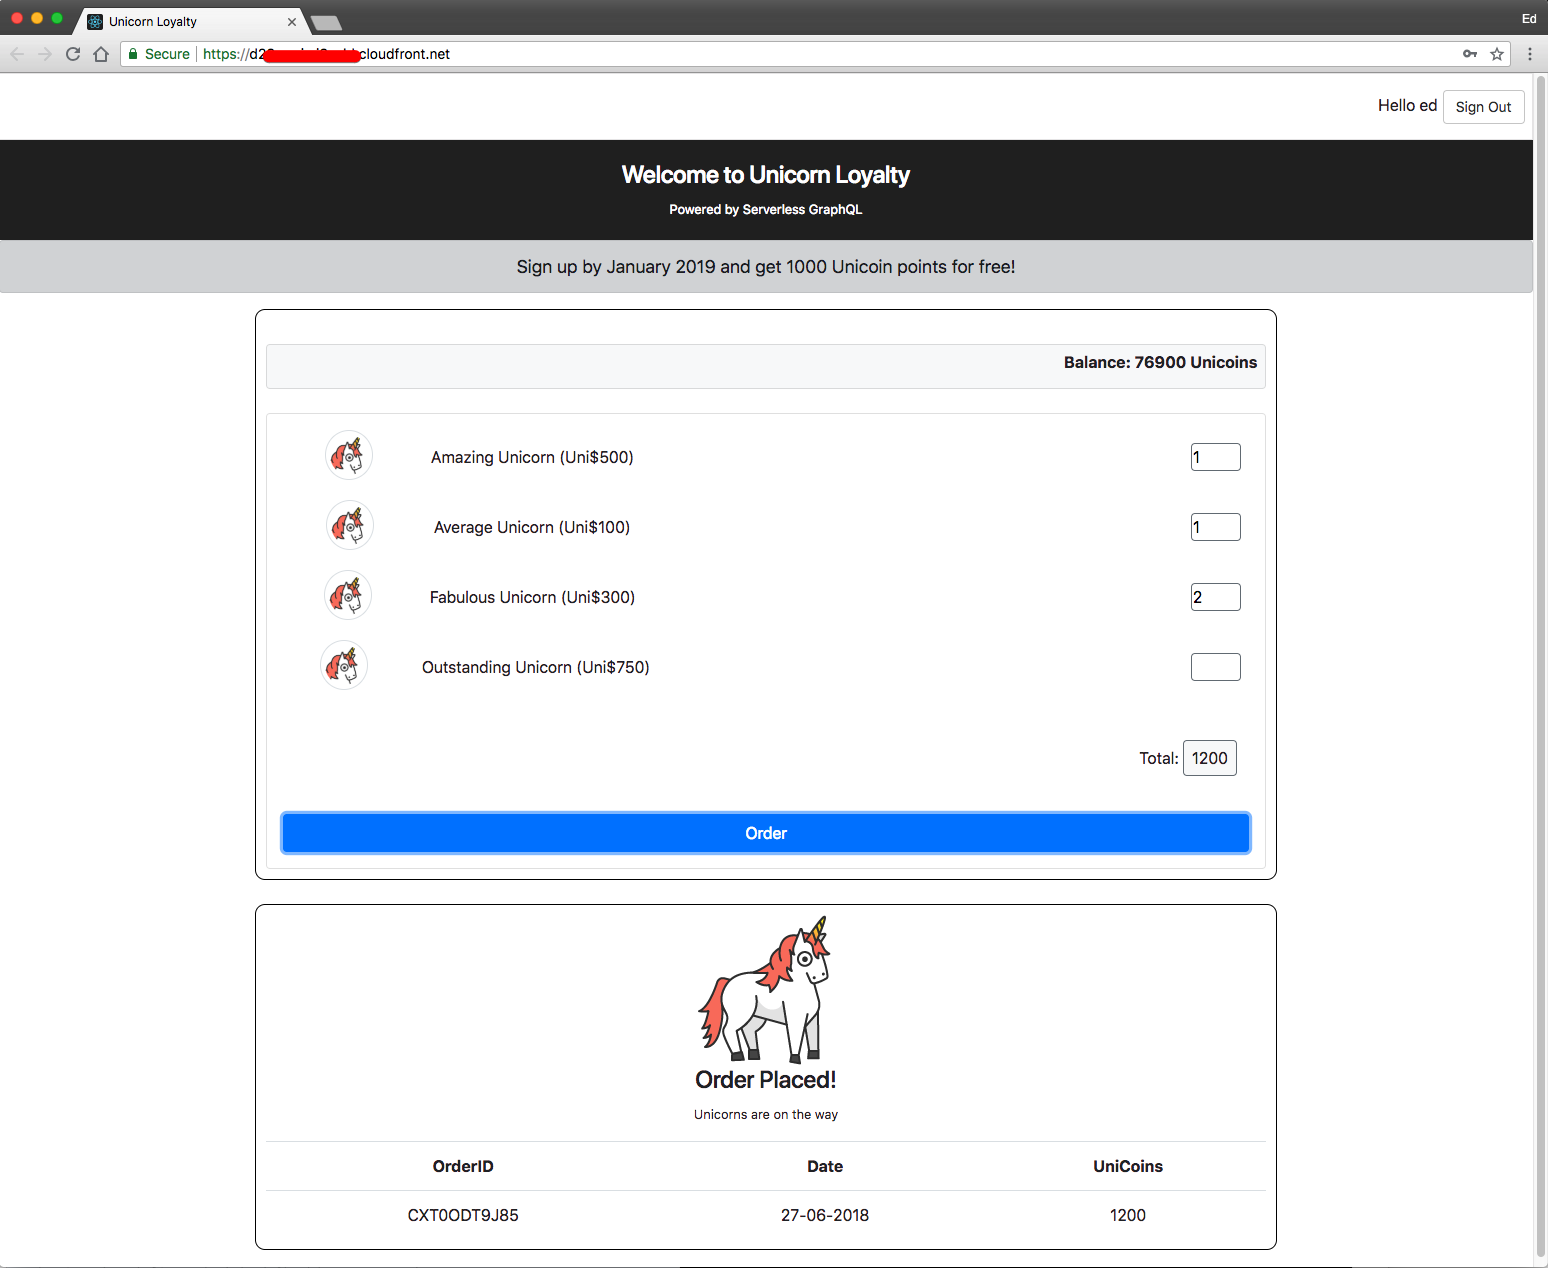
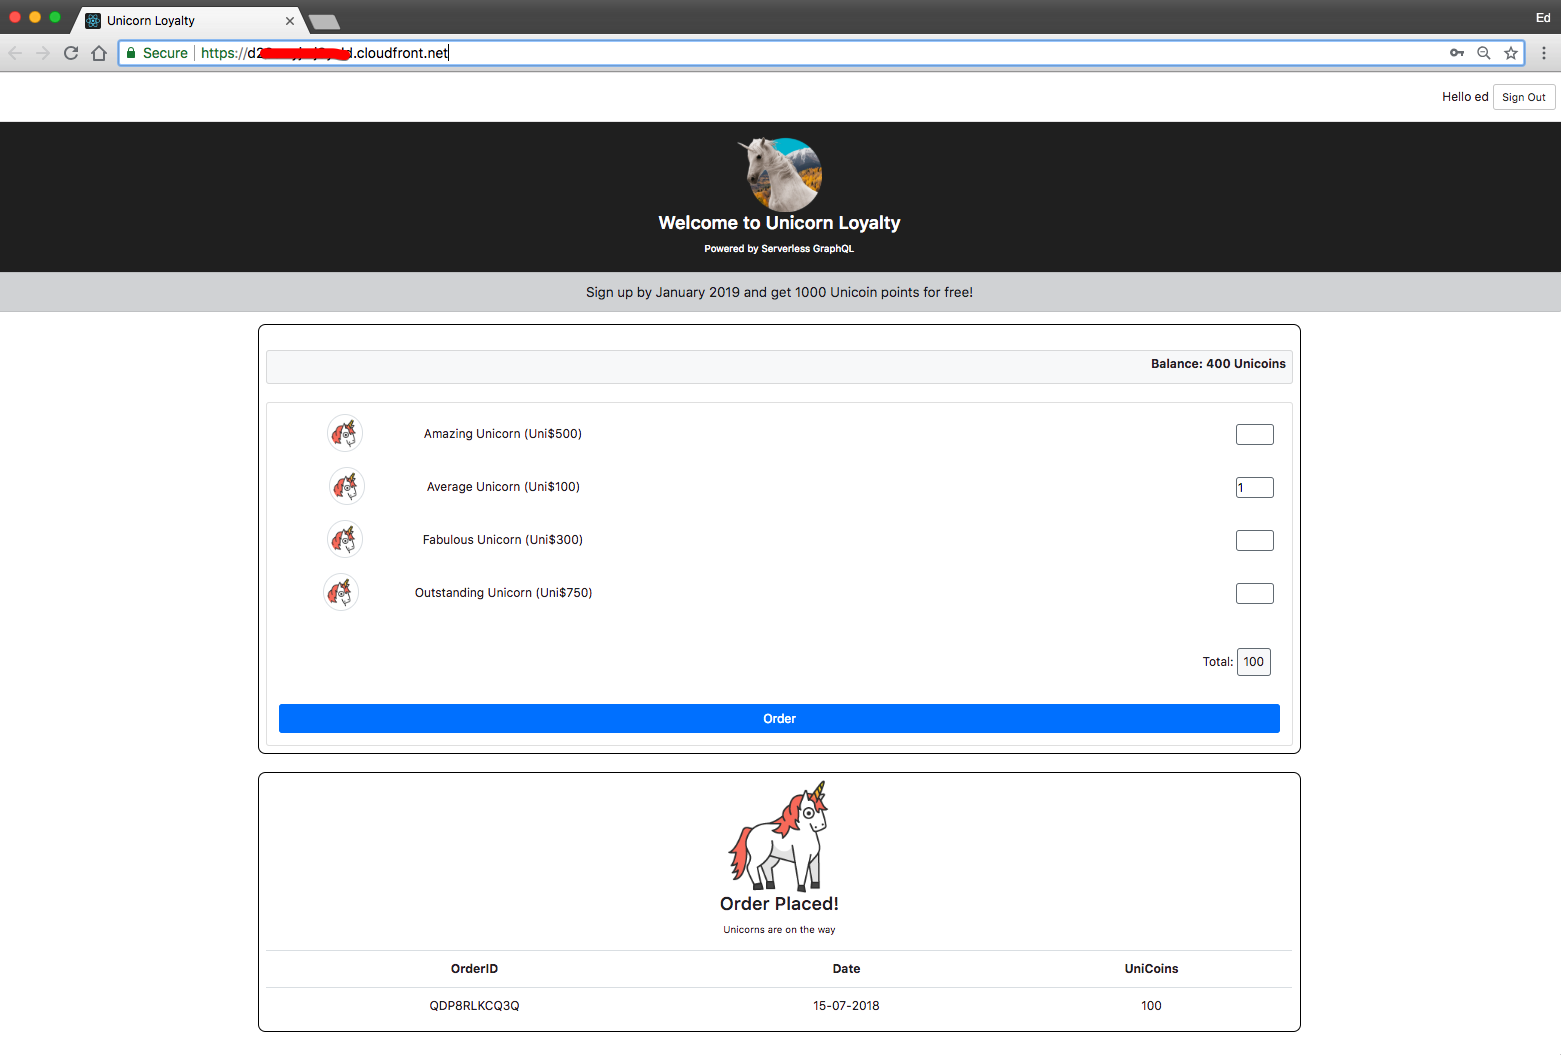
Add Shadowfax

diff --git a/src/App.js b/src/App.js
@@ -2,6 +2,7 @@ import React, { Component } from 'react';
 //Styling
 import 'bootstrap/dist/css/bootstrap.min.css';
 import "./App.css";
+import shadowfax from './images/shadowfax.png';
 //Components
 import Unicorns from "./components/Unicorns";
 import Points from "./components/Points";
@@ -144,6 +145,7 @@ class App extends Component {
     return (
       <div className="App">
         <header className="App-header">
+          <img className="logo" src={shadowfax} alt="Unicorn Logo"/>
           <h1 className="App-title">Welcome to Unicorn Loyalty</h1>
           <small>Powered by Serverless GraphQL</small>
         </header>

diff --git a/src/App.css b/src/App.css
@@ -21,6 +21,9 @@
   font-size: large;
 }
 
+.logo {
+  height:100px;
+}
 
 .center {
   text-align: center;
